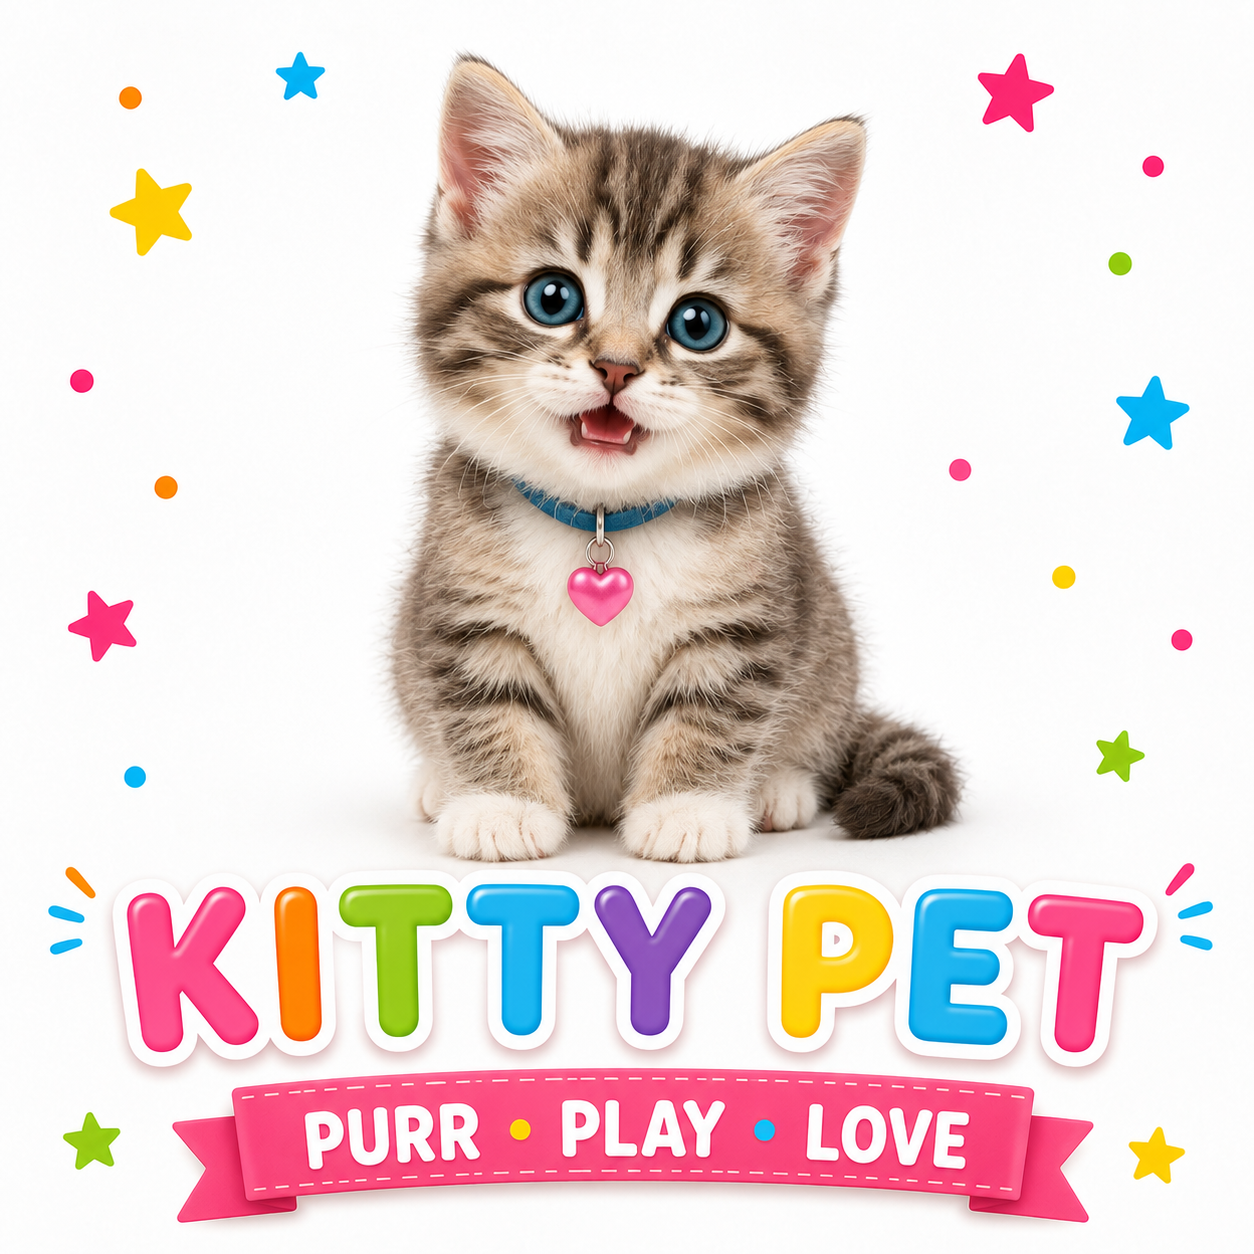
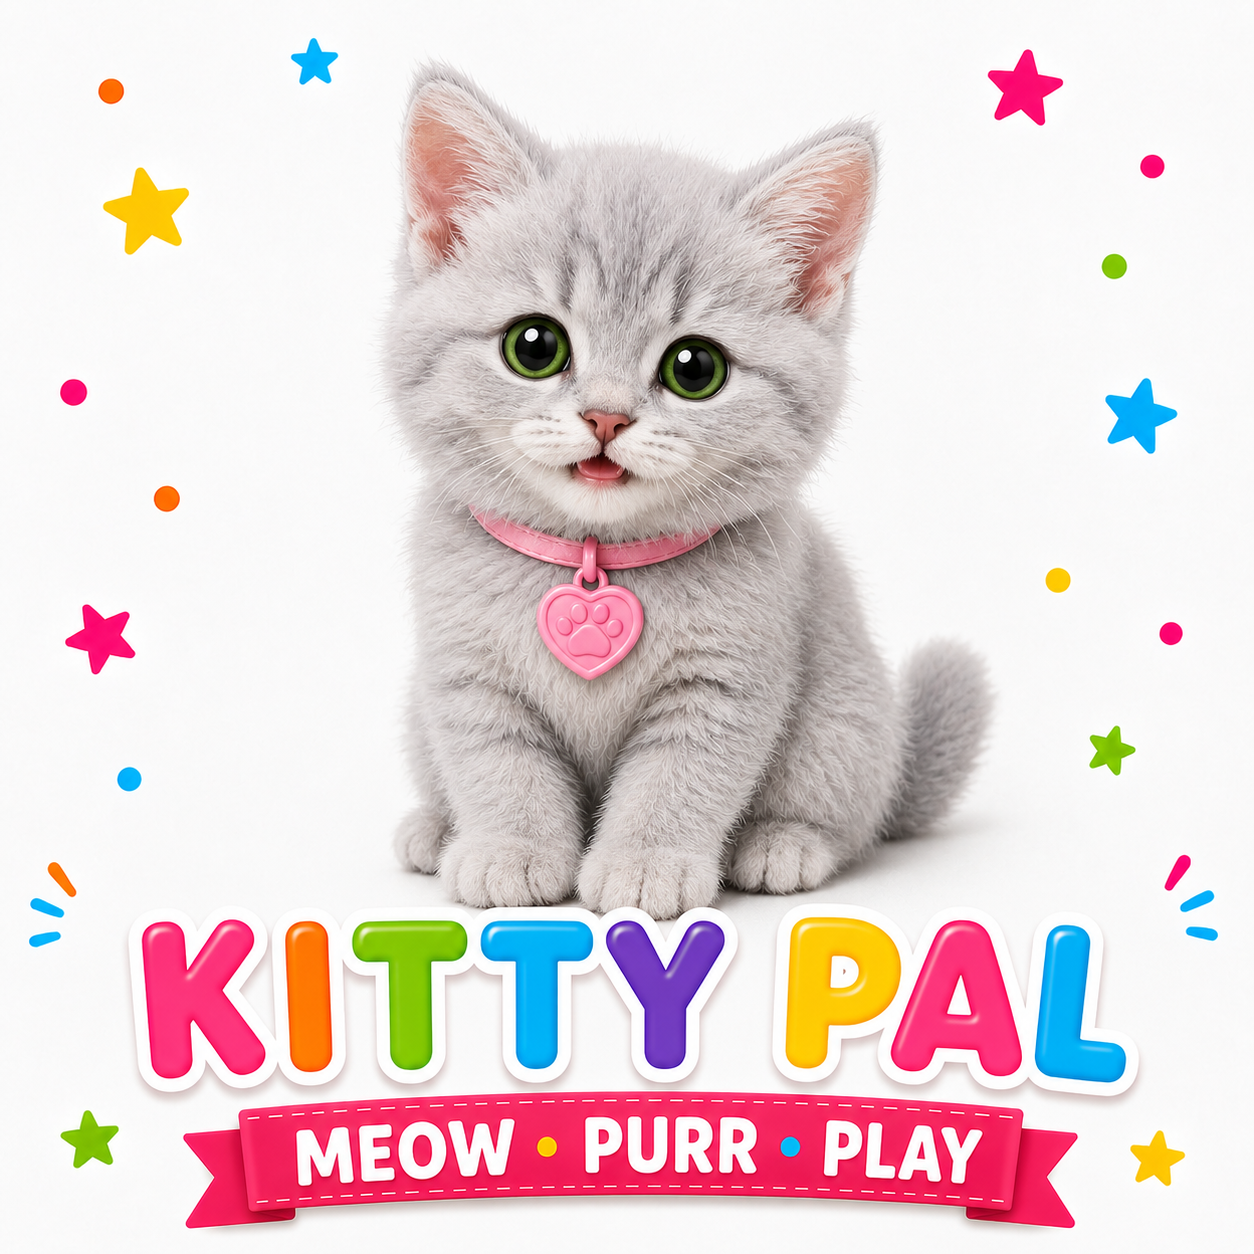
Add new ChatGPT pet images and update store names (Bunny Pal, Hamster Pal, Goldfish Pal, etc.)

diff --git a/store.html b/store.html
@@ -287,15 +287,15 @@
     const PETS = [
       { id:'puppy-plush', num:1,  name:'Puppy Plush',   emoji:'🐶', img:'img/store/puppy-plush.png', price:0.50, desc:'Soft • Cuddly • Fun!'    },
       { id:'kitty-plush', num:2,  name:'Kitty Plush',   emoji:'🐱', img:'img/store/kitty-plush.png', price:0.50, desc:'Soft • Sweet • Fun!'     },
-      { id:'puppy-pet',   num:3,  name:'Puppy Pet',     emoji:'🐶', img:'img/store/puppy-pet.png',   price:0.55, desc:'Play • Love • Snuggle!'  },
-      { id:'kitty-pet',   num:4,  name:'Kitty Pet',     emoji:'🐱', img:'img/store/kitty-pet.png',   price:0.55, desc:'Purr • Play • Love!'     },
-      { id:'robo-dog',    num:5,  name:'Robo Dog',      emoji:'🤖', img:'img/store/robo-dog.png',    price:0.70, desc:'Beep • Fetch • Play!'    },
+      { id:'puppy-pet',   num:3,  name:'Puppy Pal',     emoji:'🐶', img:'img/store/puppy-pet.png',   price:0.55, desc:'Woof • Play • Cuddle!'   },
+      { id:'kitty-pet',   num:4,  name:'Kitty Pal',     emoji:'🐱', img:'img/store/kitty-pet.png',   price:0.55, desc:'Meow • Purr • Play!'     },
+      { id:'robo-dog',    num:5,  name:'Robo Dog',      emoji:'🤖', img:'img/store/robo-dog.png',    price:0.70, desc:'Fetch • Beep • Play!'    },
       { id:'robo-cat',    num:6,  name:'Robo Cat',      emoji:'🐱', img:'img/store/robo-cat.png',    price:0.70, desc:'Purr • Beep • Play!'     },
-      { id:'hamster',     num:7,  name:'Hamster Pet',   emoji:'🐹', img:'img/store/hamster.png',     price:0.55, desc:'Tiny • Fun • Sweet!'     },
-      { id:'bunny',       num:8,  name:'Bunny Pet',     emoji:'🐰', img:'img/store/bunny.png',       price:0.60, desc:'Hop • Cuddle • Play!'    },
-      { id:'fishpet',     num:9,  name:'Goldfish Pet',  emoji:'🐟', img:'img/store/fishpet.png',     price:0.65, desc:'Swim • Splash • Shine!'  },
-      { id:'alien',       num:10, name:'Alien Friend',  emoji:'👽', img:'img/store/alien.png',       price:0.80, desc:'Space • Fun • Friend!'   },
-      { id:'dino',        num:11, name:'Real Dinosaur', emoji:'🦕', img:'img/store/dino.png',        price:0.90, desc:'Roar • Stomp • Explore!' },
+      { id:'hamster',     num:7,  name:'Hamster Pal',   emoji:'🐹', img:'img/store/hamster.png',     price:0.55, desc:'Scurry • Nibble • Play!' },
+      { id:'bunny',       num:8,  name:'Bunny Pal',     emoji:'🐰', img:'img/store/bunny.png',       price:0.60, desc:'Hop • Snuggle • Nibble!' },
+      { id:'fishpet',     num:9,  name:'Goldfish Pal',  emoji:'🐟', img:'img/store/fishpet.png',     price:0.65, desc:'Swim • Splash • Shine!'  },
+      { id:'alien',       num:10, name:'Alien Pal',     emoji:'👽', img:'img/store/alien.png',       price:0.80, desc:'Glow • Wave • Play!'     },
+      { id:'dino',        num:11, name:'Dino Pal',      emoji:'🦕', img:'img/store/dino.png',        price:0.90, desc:'Roar • Stomp • Play!'    },
     ];
 
     // ── FOOD ──────────────────────────────────────────
@@ -342,7 +342,7 @@
       { id:'bnet',        num:6,  name:'Butterfly Net',   emoji:'🦋', img:'img/store/bnet.png',       price:0.50, desc:'Swish • Catch • Play!'     },
       { id:'fishbowl',    num:7,  name:'Fish Bowl',       emoji:'🐠', img:'img/store/fishbowl.png',   price:0.70, desc:'Splash • Swim • Smile!'    },
       { id:'train',       num:8,  name:'Toy Train',       emoji:'🚂', img:'img/store/train.png',      price:0.90, desc:'Choo • Choo • Play!'       },
-      { id:'robot',       num:9,  name:'Robot',           emoji:'🤖', img:'img/store/robot.png',      price:0.75, desc:'Beep • Help • Play!'       },
+      { id:'robot',       num:9,  name:'Robot Pal',        emoji:'🤖', img:'img/store/robot.png',      price:0.75, desc:'Beep • Glow • Play!'       },
     ];
 
     // ── STATE ──────────────────────────────────────────
